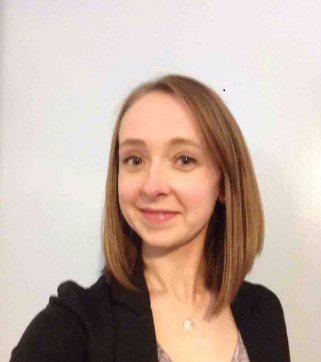
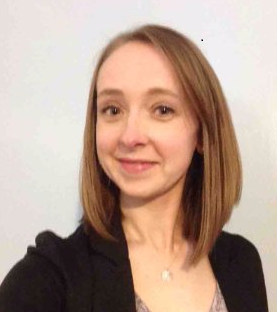
styling update

diff --git a/index.html b/index.html
@@ -12,8 +12,8 @@
 		<h1>Jennifer McCargish</h1>
 				<nav id="links">
 					<ul>
-						<a href="#about me">About Me</a>
-						<a href="#contact info">Contact Information</a>
+						<a href="#aboutMe">About Me</a>
+						<a href="#contactInfo">Contact Information</a>
 						<a href="#projects">Projects</a>
 					</ul>
 				</nav>
@@ -24,16 +24,16 @@
 
 <section id="top">
 
-		<img src="pictures/download.png" alt="Jenny's Picture">
+		<!-- <img src="pictures/download.png" alt="Jenny's Picture"> -->
 
-		<h2 id="about me">About Me</h2>
+		<h2 id="aboutMe">About Me</h2>
 
-		<p>I am currently enrolled in a 12-week coding bootcamp at We Can Code IT.  I was previously in retail management where we had made the shift to using technology to execute everything we did.  Ultimately, I wanted to be challenged in a different way, so I decided to enroll in the bootcamp so I could try a different and more creative approach to working in the industry.</p>
+		<p id="main">I am currently enrolled in a 12-week coding bootcamp at We Can Code IT.  I was previously in retail management where we had made the shift to using technology to execute everything we did.  Ultimately, I wanted to be challenged in a different way, so I decided to enroll in the bootcamp so I could try a different and more creative approach to working in the industry.</p>
 
 </section>
 
 <section>
-		<h2 id="contact info">Contact Information</h2>
+		<h2 id="contactInfo">Contact Information</h2>
 			<nav>
 				<ul>
 					<li><a href="mailto:jennymccargish@gmail.com">Email Me</a></li>
@@ -46,7 +46,7 @@
 <section>
 	<h2 id="projects">Projects</h2>
 		<nav>
-			<ul>
+			<ul id="projectLinks">
 				
 				<li><a href="https://github.com/JennyMcC/fortune-teller/blob/master/src/FortuneTellerApp.java">Fortune Teller App</a>
 

diff --git a/mystyles.css b/mystyles.css
@@ -8,11 +8,12 @@
  }
 
  main {
- 	background-color: lightgrey;
+ 	background-color: #659DBD;
  }
 
  header {
  	background-image: url("pictures/header.png");
+ 	border-bottom: 1px solid black;
  	display: flex;
  	justify-content: space-between;
  	padding: 40px;
@@ -40,13 +41,14 @@
  }
 
 h1 {
+	color: #1D2731;
 	font-size: 250%;
 	font-family: "Arial Black";
 }
 
 h2 {
+	color: #1D2731;
 	font-family: "Helvetica";
-	font-style: italic;
 	text-decoration: underline;
 }
 
@@ -63,10 +65,30 @@ nav ul li a {
 	font-size: 120%;
 }
 
-p {
-	margin-left: 400px;
-	margin-right: 400px;
+#main:before {
+	padding-right: 10px;
+	content: url("pictures/download.png");
+}
+
+#main {
+	color: #1D2731;
+	font-size: 130%;
+	margin-left: 200px;
+	margin-right: 200px;
 	text-indent: 50px;
-	font-size: 115%;
+	display: flex;
+	justify-content: center;
+	align-items: center;
+}
+
+p {
+	color: #1D2731
+}
+
+#projectLinks {
+	display: flex;
+	flex-direction: column;
+	justify-content: space-around;
+	align-items: center;
 }
 
